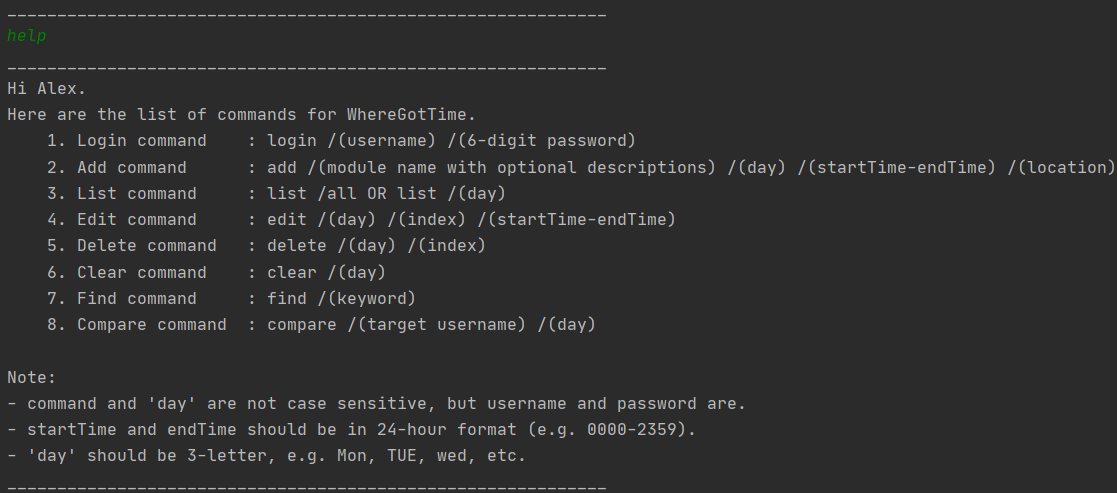
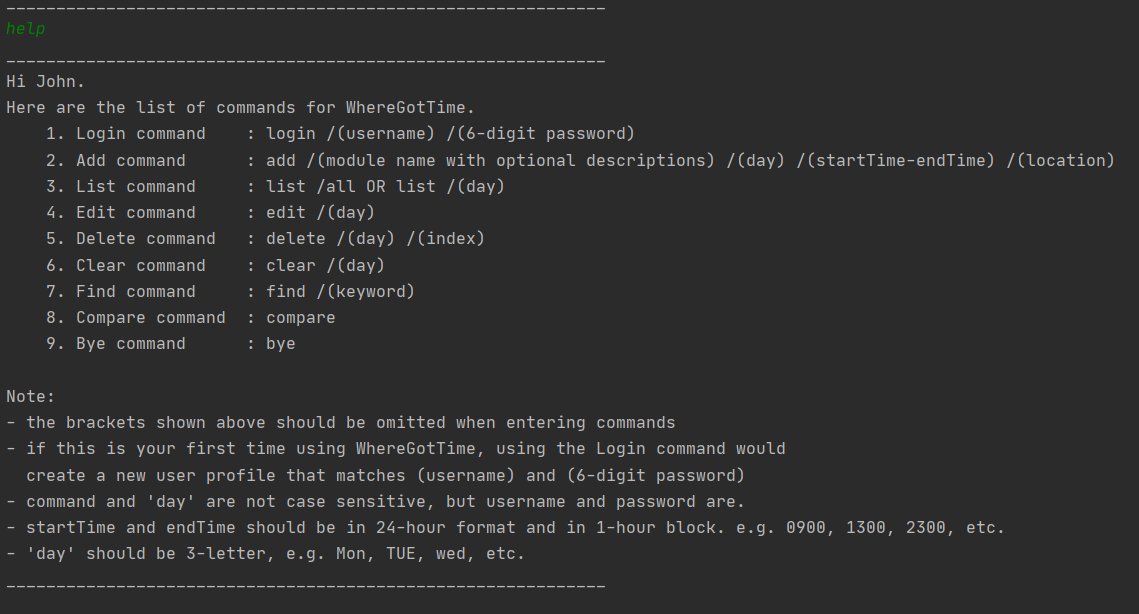
Updated UserGuide,Developer Guide for updated edit command and Added my PPP

Changed region(s): [[0.0, 0.1217, 1.0, 1.0], [0.0, 0.0, 0.5175, 0.0913]]

diff --git a/docs/UserGuide.md b/docs/UserGuide.md
@@ -16,7 +16,8 @@ WhereGotTime is an application for the student to check their timetable and comp
 Some example commands you can try:
     1. login /John Snow /123123: login as John Snow
     1. add /CS2113 Lec /mon /1600-1800 /LT23: Adds an event named CS2113 Lecture for current logged in the student (John Snow) to Time Table
-    1. edit /mon /1 /1300-1400 : Edits first event named CS2113 on Monday for current logged in (John Snow) in the TimeTable
+    1. edit /mon <br/>
+       /1 /1300-1400 : Edits first event named CS2113 on Monday for current logged in (John Snow) in the TimeTable
     1. list /all: list of all the classes that John Snow has in a new line, enumerated.
     1. find /CS2113: finds all the classes that John Snow has containing "CS2113"
     1. delete /mon /1 : Deletes the 1st class shown in the current list.
@@ -38,7 +39,9 @@ Some example commands you can try:
 Creates a new User with inputted username and password (if first time user).
 Logs the existing user back into the app. (existing user)
 
-Format: `login /username /password(6-digit)`
+Format: 
+
+`login /username /password(6-digit)`
 
 Example of usage: 
 
@@ -51,7 +54,9 @@ Expected Output:
 ### Adding a timetable: `add`
 Adds a new timetable to the list of timetable arraylist.
 
-Format: `add /event name /day /timeStart-timeEnd /Location`
+Format: 
+
+`add /event name /day /timeStart-timeEnd /Location`
   
 Example of usage: 
 
@@ -66,15 +71,23 @@ Expected Output:
 ### Editing a timetable : `edit`
 Edits an existing timetable with a new timing.
 
-Format: `edit /day /index /(timeStart-timeEnd)`
+Format: 
+
+`edit /day` <br/>
+
+`/index /newStarttime-newEndtime` <br/>
 
 Note: You may get the `index` by listing the full timetables using `list /all`
 
 Example of usage:
 
-`edit /mon /1 /1100-1200`
+`edit /mon` <br/>
 
-`edit /thu /1 /1300-1500`
+`/1 /1100-1200`<br/>
+
+`edit /thu` <br/> 
+
+`/1 /1300-1500` <br/>
 
 Expected Output:
 
@@ -82,7 +95,9 @@ Expected Output:
 ### Listing a timetable: `list`
 Lists all the classes on a particular day or on all days
 
-Format: `list /day`
+Format: 
+
+`list /day`
 
 Example of usage:
 
@@ -100,6 +115,7 @@ Expected Output:
 Compares current User's timetable to Target user's timetable and returns a range of common available timeslots.<br/>
 
 Format: <br/>
+
 `compare`<br/>
 `TargetUser's index`<br/>
 `day`<br/>
@@ -121,7 +137,9 @@ Expected output: <br/>
 ### Finding a class: `find`
 Lists all the classes based on the keyword entered by user
 
-Format: `find /keyword`
+Format: 
+
+`find /keyword`
 
 Example of usage:
 
@@ -136,7 +154,9 @@ Expected output:
 ### Deleting a class: `delete`
 Deletes a class as specified by the user 
 
-Format: `delete /day /index`
+Format: 
+
+`delete /day /index`
 
 Example of usage:
 
@@ -149,7 +169,9 @@ Expected Output:
 ### Clearing timetable: `clear`
 Clears all the classes on the day specified by the user
 
-Format: `clear /day`
+Format: 
+
+`clear /day`
 
 Example of usage:
 
@@ -162,7 +184,9 @@ Expected Output:
 ### Help Command: `help`
 Display the list of commands available and their usage<br/>
 
-Format: `help`
+Format: 
+
+`help`
 
 Expected output:
 
@@ -171,20 +195,43 @@ Expected output:
 ### Exiting the program: `bye`
 Exits the Program<br/>
 
-Format: `bye`
+Format: 
+
+`bye`
 
 Expected output:
 
 ![](images/Exit_EO.PNG)<br/>
 
 ## Command Summary
-* Login user `login /username /password`
-* Add timetable `add /event name /day /timeStart-timeEnd /Location`
-* Edit timetable `edit /day /index /timeStart-timeEnd`
-* List timetable `list /day`
-* Compare timetable `compare /target username /day`
-* Find class `find /keyword`
-* Delete timetable `delete /day /index`
-* Clear timetable `clear /day`
-* Help Command `help`
-* Exit program `bye`
+* Login user 
+
+    `login /username /password`
+* Add timetable 
+
+    `add /event name /day /timeStart-timeEnd /Location`
+* Edit timetable
+ 
+    `edit /day` <br/>
+    `/index /newStarttime-newEndtime`
+* List timetable 
+    
+    `list /day`
+* Compare timetable 
+    
+    `compare /target username /day`
+* Find class 
+
+    `find /keyword`
+* Delete timetable 
+    
+    `delete /day /index`
+* Clear timetable 
+    
+    `clear /day`
+* Help Command 
+    
+    `help`
+* Exit program 
+    
+    `bye`

diff --git a/docs/team/weisiong24.md b/docs/team/weisiong24.md
@@ -1,0 +1,41 @@
+# Ng Wei Siong - Project Portfolio Page
+
+## Project: WhereGotTime
+WhereGotTime is an application for students to add, edit and check their timetable schedules.
+It is also able to compare timetable with their peers to find a common timeslot 
+so that they can schedule a study time together.
+
+Given below are my contributions to the project.
+
+### Summary of Contributions
+
+* New Feature:  Added the ability to Add user timetable details into our application
+    * What it does: allows user to enter their timetable schedules (time,day,location and description) into the timetable using AddCommand Class
+    * Justification: This feature allows user to add in their timetable schedules using the application add format so that their inputs will be captured
+
+* New Feature: Added checks to user input when using the Add Command
+    * What it does: 
+        * Implemented time, day and description checks on the user input and display error message to allow user to retype to the correct format
+        * Implemented format checks (NumberFormat Exception and Out of bound Exception) into Add command
+        * Implemented check on the add command so that user follows the specified format when entering data
+        * Implemented duplication check for user to indicate duplicate entries entered
+    * Justification: This enhancement guides our user to enter their data correctly into our application for further usage
+    
+* Code contributed: [RepoSense link](https://nus-cs2113-ay2021s1.github.io/tp-dashboard/#breakdown=true&search=weisiong24&sort=groupTitle&sortWithin=title&since=2020-09-27&timeframe=commit&mergegroup=&groupSelect=groupByRepos&checkedFileTypes=docs~functional-code~test-code~other)
+
+* Contributions to team-based tasks : 
+    * Creates and updates the team project board in Github with user stories and features for the milestone v1.0 
+    * Added more labels for issue tracking in GitHub for teammates to use
+    
+* Documentation:
+    * User Guide:
+        * Added the format of the user guide to allow teammates to add on
+        * Added User guide for add command ,exit command and Command summary
+        * Updated Expected outputs of login, add,edit, list ,delete ,find, clear,help, exit commands
+        * Updated the introduction, quick start and feature to base on our Project
+    
+    * Developer guide:
+        * Added the design and implementation of Add command with uml and architecture and sequence design
+        * Provided a format for Developer Guide for other teammates to add on
+        * Updated the Target User Profile, Value Proposition and User Stories based on our Project
+        * Updated the Manual testing commands 

diff --git a/docs/DeveloperGuide.md b/docs/DeveloperGuide.md
@@ -294,8 +294,10 @@ add /CG2028 Tut /Thu /0900-1100 /E4-4-1<br/>
 add /CG2023 Lec /Fri /1700-1800 /E7-3-10<br/>
 list /all<br/>
 list /mon<br/>
-edit /mon /3 /1300-1400<br/>
-edit /fri /1 /0900-1100<br/>
+edit /mon<br/>
+/3 /1300-1400<br/>
+edit /fri<br/>
+/1 /0900-1100<br/>
 list /all<br/>
 list /mon<br/>
 login /Tammy /321321<br/>
@@ -304,7 +306,8 @@ add /CS2040C Tut /mon /0800-1000 /COM1-2<br/>
 add /CG2028 Tut /Thu /0900-1100 /E4-4-1<br/>
 compare /Alex /mon<br/>
 list /mon<br/>
-edit /mon /2 /1000-1200<br/>
+edit /mon<br/>
+/2 /1000-1200<br/>
 compare /Alex /mon<br/>
 login /Alex /123123<br/>
 delete /mon /2<br/>
